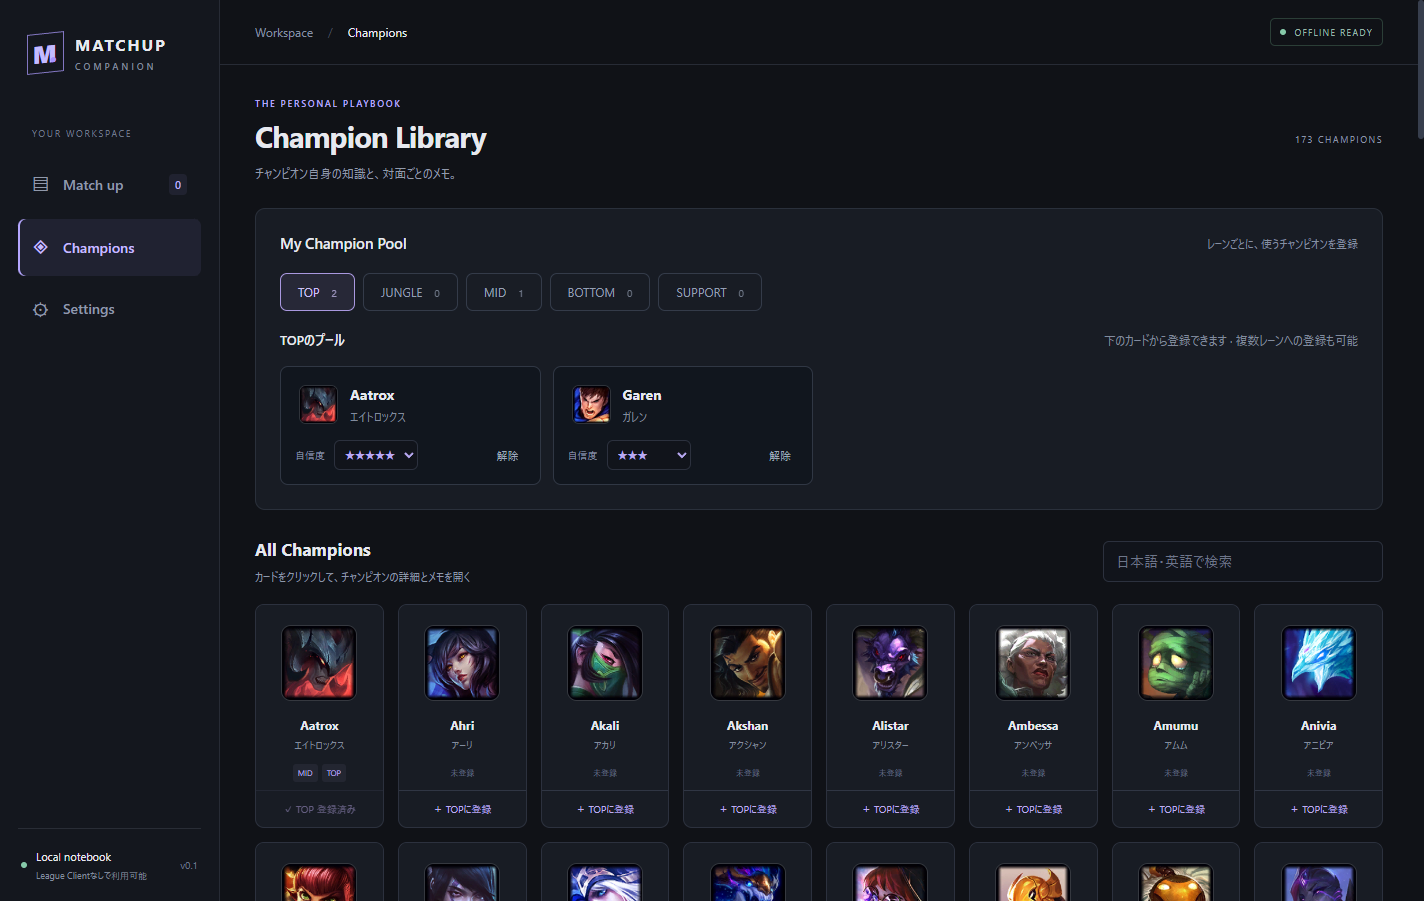
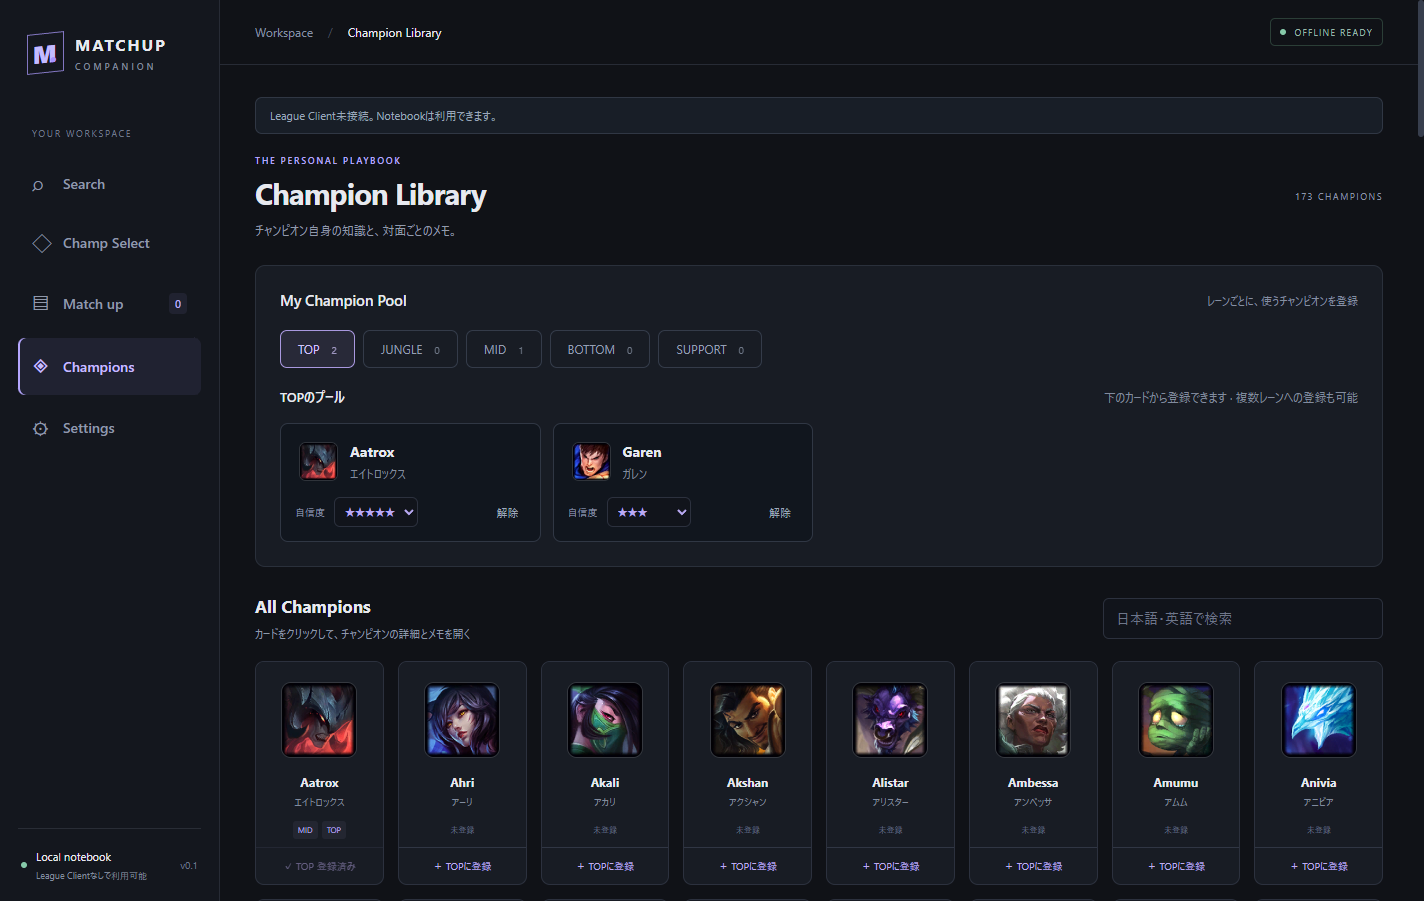
docs: document Phase 2 and LCU architecture and verification

diff --git a/docs/lcu.md b/docs/lcu.md
@@ -1,0 +1,40 @@
+# League Client連携（Phase 3）
+
+## 接続の流れ
+
+1. MainのLcuServiceが、指定済みフォルダー・既知のインストール先・LeagueClient.exeの実行パスからlockfileを探す。
+2. lockfileからHTTPSポートと認証情報をMainのメモリ内だけに読み込む。
+3. 127.0.0.1へのGETで `/lol-gameflow/v1/gameflow-phase` を取得。
+4. ChampSelect中だけ `/lol-champ-select/v1/session` を読み、localPlayerCellIdに一致する自分のチーム情報からRoleとChampion IDを抽出する。
+5. theirTeamのchampionIdが正のものだけを表示する。敵のchampionPickIntentやプレイヤー名・アカウント情報は利用しない。敵Roleは推定しない。
+6. Rendererは型付きsnapshotだけを取得する。選択されたChampion IDで既存RepositoryのMy Picks / Matchup / Champion Notesを読む。
+
+LCU APIは公式の長期互換性が保証された一般公開APIではないため、変換処理を独立させる。実クライアントのレスポンスに差異が出た場合はparseSessionとテストを更新する。
+
+## ポーリングと復旧
+
+リクエストを重ねず、完了後2秒で再取得する。接続の検出用PowerShellは最大4秒・10秒以上の間隔。HTTPSリクエストは2.5秒で打ち切り、1MBを超えるレスポンスを拒否する。中断・失敗時は前回のPick情報を消し、次回再接続する。
+
+セッション開始と再接続に識別子を付け、Rendererの手動対面・候補選択をリセットする。選択済みの敵が消えたらメモも非表示にする。Role未確定・自分のChampion未確定では入力を促す。
+
+## セキュリティ
+
+接続先は127.0.0.1固定、HTTPメソッドはGETのみ。自己署名証明書の例外はこの個別HTTPSリクエストだけに限定し、ElectronやNodeのTLS検証を全体で無効にしない。リダイレクトは追従しない。認証情報や生レスポンスはIPC・ログ・DBへ渡さない。
+
+Settingsが保存するのはユーザーがOSダイアログで選択したフォルダーのパスだけ。Rendererから任意のファイル読み込みAPIは公開しない。Windowsのアクセス権で自動検出できない場合は手動フォルダー選択を使う。
+
+## テストと実機確認
+
+- 変換：localPlayerCellId、自分のRole、未確定値、隠れたPickの除外、敵ID重複。
+- Service：Select開始、非Select、切断、エラー、再接続、セッションの更新。
+- Electron E2E：一時証明書付きHTTPSサーバー、lockfile検出、Basic認証、2つのGETだけが行われること、敵選択、My Picksプレビュー、Pin付きメモ参照、敵Pick変更、切断復帰、編集中画面の保護。
+- 実際の起動中League Clientで接続とphase=None取得を確認。実際のChampion Select中の検証は未実施。
+
+疑似LCUはテスト専用で、通常起動にデモ状態を混ぜない。テスト起動では通常のインストール先の自動探索を無効にする。
+
+## 参考
+
+- [Riot: League Client API](https://developer.riotgames.com/docs/lol#league-client-api)
+- [Riot: LCU API Policy](https://www.riotgames.com/en/DevRel/changes-to-the-lcu-api-policy)
+
+配布・公開時にはRiot Developer Portalの現行ポリシーとアプリ登録状況を確認する。

diff --git a/docs/database.md b/docs/database.md
@@ -1,5 +1,7 @@
 # データベース設計
 
+現在のuser_versionは4。過去のバージョンから順にトランザクションで移行する。
+
 Phase 1ではchampions / matchups / matchup_notesを作る。PRAGMA user_versionでmigrationを管理し、未知の新しいバージョンは拒否する。外部キーを有効にする。SQLへの値の挿入はバインドパラメータで行う。
 
 | テーブル      | 主な列・制約                                                                                                                                    |
@@ -20,10 +22,7 @@ v1からの起動時にトランザクションでテーブルとインデック
 
 ## 将来追加するスキーマ
 
-- champion_notesへfavorite INTEGER CHECK IN (0,1)を追加。
-- my_picks: enemy_champion_id FK, my_champion_id FK, role, priority, confidence CHECK 1–5。3キーUNIQUE。
-- settings: key TEXT PK, value TEXT（アプリ側で設定ごとの型を検証）。
-- matchup_notesへfavorite INTEGER CHECK IN (0,1)を追加。
+今後の統計集計・試合履歴は、取得方式の決定に合わせて追加する。
 
 これらは利用機能と同じPhaseでmigrationとして追加する。ノートのChampion IDとRoleは親Matchupから取得し、重複保存しない。
 
@@ -32,3 +31,13 @@ v1からの起動時にトランザクションでテーブルとインデック
 champion_poolにchampion_id FK、role CHECK、confidence INTEGER CHECK 1〜5を保存する。主キーは(champion_id, role)。同一レーンでの再登録は自信度の更新となり、別レーンの登録には影響しない。削除はプールの行だけを対象とし、ノートを保持する。
 
 v1/v2から起動時に順次migrationする。v2からの移行、レーンごとの分離、重複登録、解除、既存ノートとプールの再接続後の保存をRepositoryテストで確認する。
+
+## Schema v4: My Picks / Pin / 設定
+
+my_picksは(my_champion_id, enemy_champion_id, role)を主キーとし、priority 1〜99、confidence 1〜5を保存する。候補はpriority昇順・confidence降順。Poolとは独立して管理する。
+
+champion_notesとmatchup_notesにpinned INTEGER NOT NULL DEFAULT 0 CHECK IN (0,1)を追加。既存メモはPinなしとして移行する。Pinを先頭に並べ、本文編集でもPinは保持する。
+
+settingsはkey TEXT PRIMARY KEYとvalue TEXT。現在はleagueFolderだけをMainが書き込む。LCUのパスワード・ポートは保存しない。
+
+横断検索は個人Notebookの規模を前提にJOIN/UNIONした行をJSで日英名・本文・Role・CategoryのAND条件で絞り込む。大規模化したらFTSとページングを検討する。検索入力は200文字まで。

diff --git a/docs/decisions.md b/docs/decisions.md
@@ -23,3 +23,9 @@ Data Dragonの数値keyを主キーにし、173体のカタログとアイコン
 ## 006: IPCとコンテンツ保護
 
 contextIsolation=true / sandbox=true / nodeIntegration=false。トップフレームと送信元ウィンドウ・URLを確認する。新規ウィンドウ・ナビゲーション・権限要求を拒否する。CSPを設定し、メモはテキストとして描画する。開発時のみReact Refreshに必要なインラインスクリプトを許可し、productionのCSPには含めない。
+
+## 007: Phase 2 / 3を先に完成させる
+
+UIの細部は後で調整する方針に従い、My Picks・検索・Pin・LCUを追加した。LCUは参照だけに限定し、Pick・Ban・ロックの自動操作を実装しない。Select開始時はバナーを表示し、編集中のNotebookを強制的に切り替えない。
+
+LCUの更新は順次ポーリングを採用。WebSocket再接続の複雑さを避け、小さな読み取り専用機能を先に完成させる。2秒周期の遅延は許容し、必要なら将来イベント購読に置き換える。

diff --git a/docs/notebook.md b/docs/notebook.md
@@ -16,7 +16,7 @@
 - Electron: オフラインで実際の画面を操作し、保存・編集・削除・評価・日本語Champion検索・未保存変更の保護・再起動復元を確認。DBをロックして保存失敗時の入力保持とリトライも確認する。
 - E2Eの保存先は `.test-data` 以下の新規フォルダー。通常のuserDataとは分離する。
 
-全メモ本文を横断する検索、Pinは後続Phase。現状の一覧検索は保存済み対面のチャンピオン名とRoleを対象にする。
+Searchで本文を含めた横断検索を実装。Champion名・敵Champion名・本文・Role・Categoryを対象に、スペース区切りのAND検索を行う。Pinのみの表示も可能。結果から単体ページ・対面ページへ戻れる。
 
 ## ChampionsとMatch up
 
